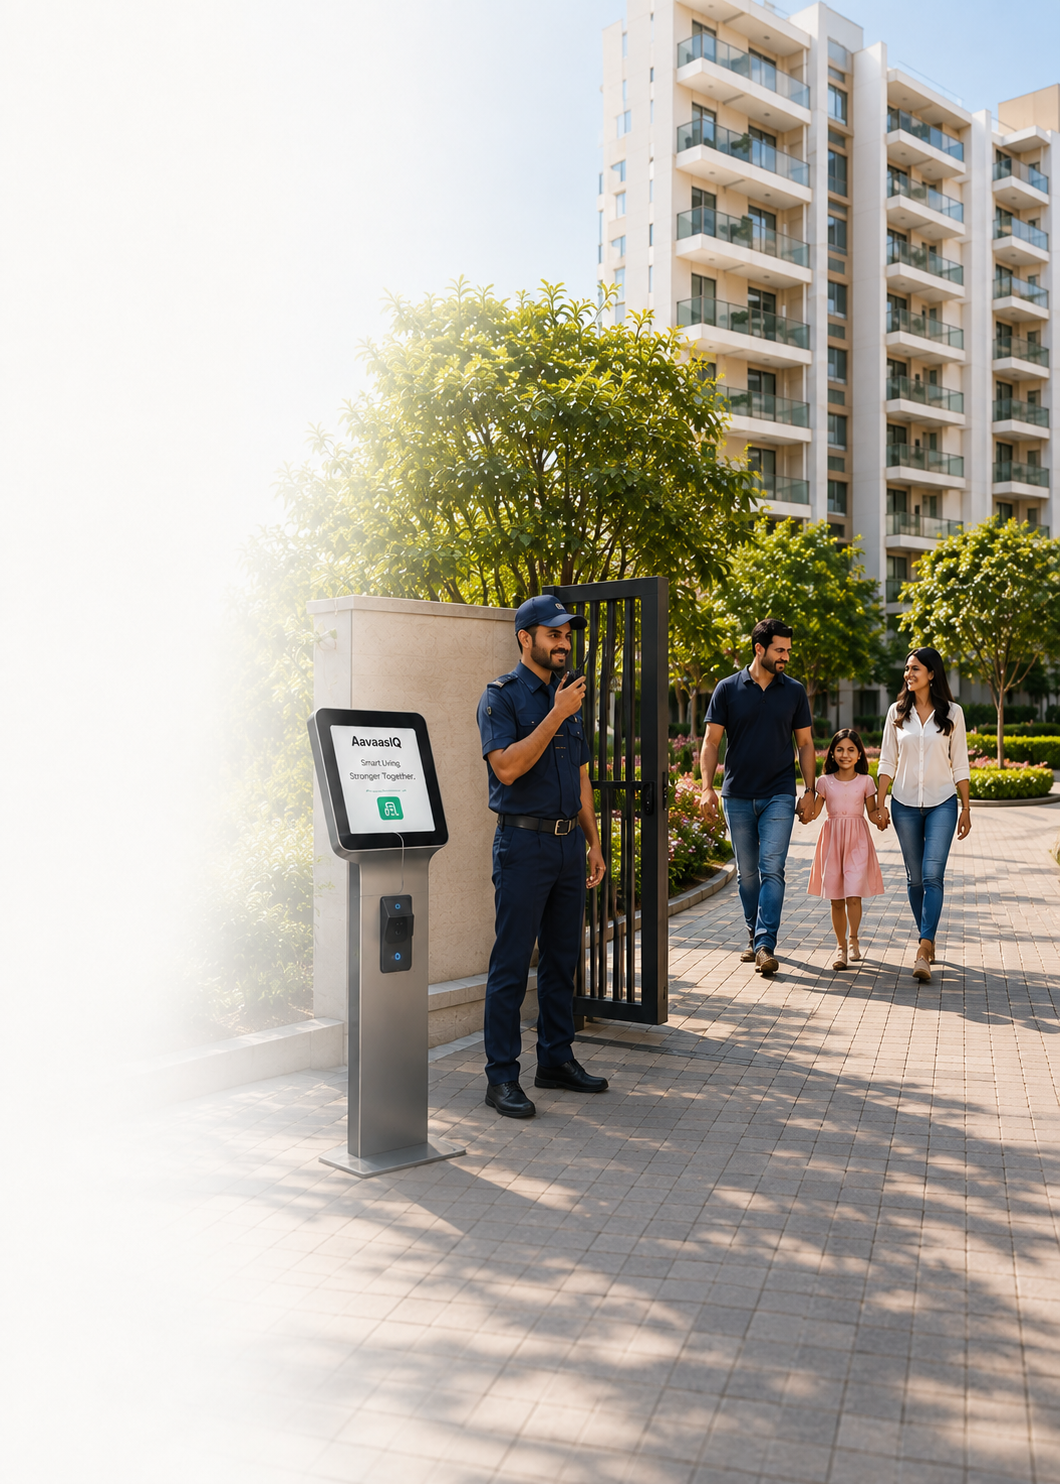
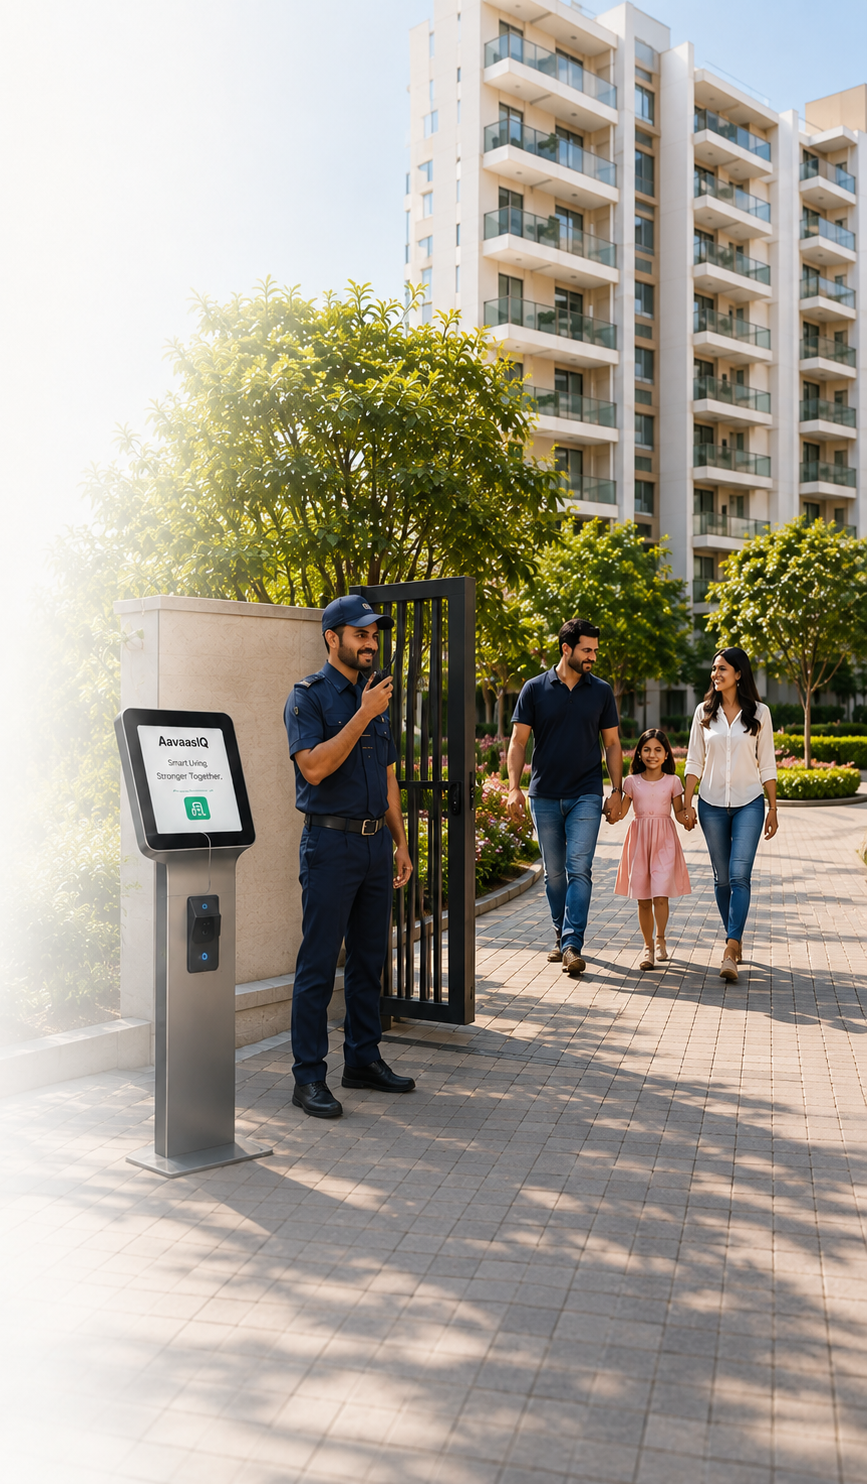
fix(landing): enhance mobile responsiveness for hero, navbar, and footer

diff --git a/components/layout/Footer.tsx b/components/layout/Footer.tsx
@@ -24,13 +24,13 @@ const footerLinks = {
 
 export default function Footer() {
   return (
-    <footer className="bg-neutral-900 dark:bg-[#07090e] text-neutral-400 border-t border-neutral-800 transition-colors">
-      <div className="max-w-7xl mx-auto px-4 sm:px-6 lg:px-8 py-14">
-        <div className="grid grid-cols-1 md:grid-cols-2 lg:grid-cols-4 gap-10">
+    <footer className="w-full bg-neutral-900 dark:bg-[#07090e] text-neutral-400 border-t border-neutral-800 transition-colors">
+      <div className="w-full max-w-7xl mx-auto px-4 sm:px-6 lg:px-8 pt-10 pb-14 sm:pt-12 sm:pb-12 md:py-14">
+        <div className="grid grid-cols-1 md:grid-cols-2 lg:grid-cols-4 gap-8 sm:gap-10 md:gap-10">
           {/* Brand */}
           <div className="lg:col-span-1">
             <Link href="/" className="inline-flex items-center gap-2 mb-4">
-              <div className="w-8 h-8 bg-primary-600 rounded-lg flex items-center justify-center">
+              <div className="w-8 h-8 bg-primary-600 rounded-lg flex items-center justify-center shrink-0">
                 <Building2 className="w-4 h-4 text-white" />
               </div>
               <span className="text-white font-bold text-lg tracking-tight">AavaasIQ</span>
@@ -38,21 +38,21 @@ export default function Footer() {
             <p className="text-sm text-neutral-400 leading-relaxed">
               Smarter Societies. Better Living.
             </p>
-            <p className="text-xs text-neutral-500 mt-3 leading-relaxed max-w-xs">
+            <p className="text-xs text-neutral-500 mt-3 leading-relaxed max-w-xs break-words">
               An intelligent digital platform that makes residential community management simpler, safer and more connected.
             </p>
           </div>
 
           {/* Link columns */}
           {Object.entries(footerLinks).map(([title, links]) => (
-            <div key={title}>
-              <h3 className="text-white text-sm font-semibold mb-4">{title}</h3>
-              <ul className="space-y-2.5">
+            <div key={title} className="w-full">
+              <h3 className="text-white text-sm font-semibold mb-3 sm:mb-4">{title}</h3>
+              <ul className="space-y-3 md:space-y-2.5">
                 {links.map((link) => (
                   <li key={link.label}>
                     <Link
                       href={link.href}
-                      className="text-sm text-neutral-400 hover:text-neutral-200 transition-colors"
+                      className="inline-block py-1 sm:py-0.5 md:py-0 text-sm text-neutral-400 hover:text-neutral-200 transition-colors"
                     >
                       {link.label}
                     </Link>
@@ -64,11 +64,11 @@ export default function Footer() {
         </div>
 
         {/* Bottom bar */}
-        <div className="mt-12 pt-6 border-t border-neutral-800 flex flex-col sm:flex-row justify-between items-center gap-3">
+        <div className="mt-10 sm:mt-12 pt-6 border-t border-neutral-800 flex flex-col sm:flex-row justify-between items-center gap-3 text-center sm:text-left">
           <p className="text-xs text-neutral-500">
             © 2025 AavaasIQ. All rights reserved.
           </p>
-          <p className="text-xs text-neutral-600">
+          <p className="text-xs text-neutral-600 sm:text-right">
             Built for modern Indian residential communities.
           </p>
         </div>

diff --git a/components/landing/HeroSection.tsx b/components/landing/HeroSection.tsx
@@ -1,6 +1,10 @@
 import Link from "next/link";
 
-export default function HeroSection() {
+interface HeroSectionProps {
+  dashboardHref?: string | null;
+}
+
+export default function HeroSection({ dashboardHref }: HeroSectionProps = {}) {
   return (
     <section className="relative min-h-[600px] lg:min-h-[680px] bg-white dark:bg-[#0b0f17] overflow-hidden pt-24 pb-16 transition-colors">
       {/* Background image — right side only, fades out via gradient */}
@@ -30,7 +34,7 @@ export default function HeroSection() {
         className="absolute inset-0 lg:hidden"
         aria-hidden="true"
         style={{
-          backgroundImage: "url('/LandingHero.png')",
+          backgroundImage: "url('/HeroMobile.png')",
           backgroundRepeat: "no-repeat",
           backgroundSize: "cover",
           backgroundPosition: "top center",
@@ -64,10 +68,10 @@ export default function HeroSection() {
           {/* CTA Buttons */}
           <div className="flex flex-wrap gap-3">
             <Link
-              href="/signup"
+              href={dashboardHref || "/signup"}
               className="inline-flex items-center justify-center bg-primary-600 hover:bg-primary-700 text-white font-semibold px-6 py-3 rounded-lg transition-colors text-sm"
             >
-              Get Started Free
+              {dashboardHref ? "Go to Dashboard" : "Get Started Free"}
             </Link>
             <Link
               href="#features"

diff --git a/components/layout/Navbar.tsx b/components/layout/Navbar.tsx
@@ -18,19 +18,16 @@ import { createClient } from '@/lib/supabase/client';
 import { getInitials } from '@/lib/utils';
 
 const navLinks = [
+  { label: 'Home', href: '/' },
   { label: 'Features', href: '/#features' },
   { label: 'Services', href: '/#services' },
-  { label: 'About', href: '/#about' },
   { label: 'Contact', href: '/#contact' },
 ];
 
 const exploreLinks = [
-  { label: 'Features', href: '/features', desc: 'Full platform feature breakdown' },
   { label: 'How It Works', href: '/how-it-works', desc: 'Get started in 4 simple steps' },
   { label: 'Roles', href: '/roles', desc: 'Resident, Admin, Security, Provider' },
-  { label: 'Services', href: '/services', desc: 'Home services marketplace' },
   { label: 'About', href: '/about', desc: 'Our mission and story' },
-  { label: 'Contact', href: '/contact', desc: 'Get in touch or request a demo' },
 ];
 
 const roleDashboardMap: Record<string, string> = {
